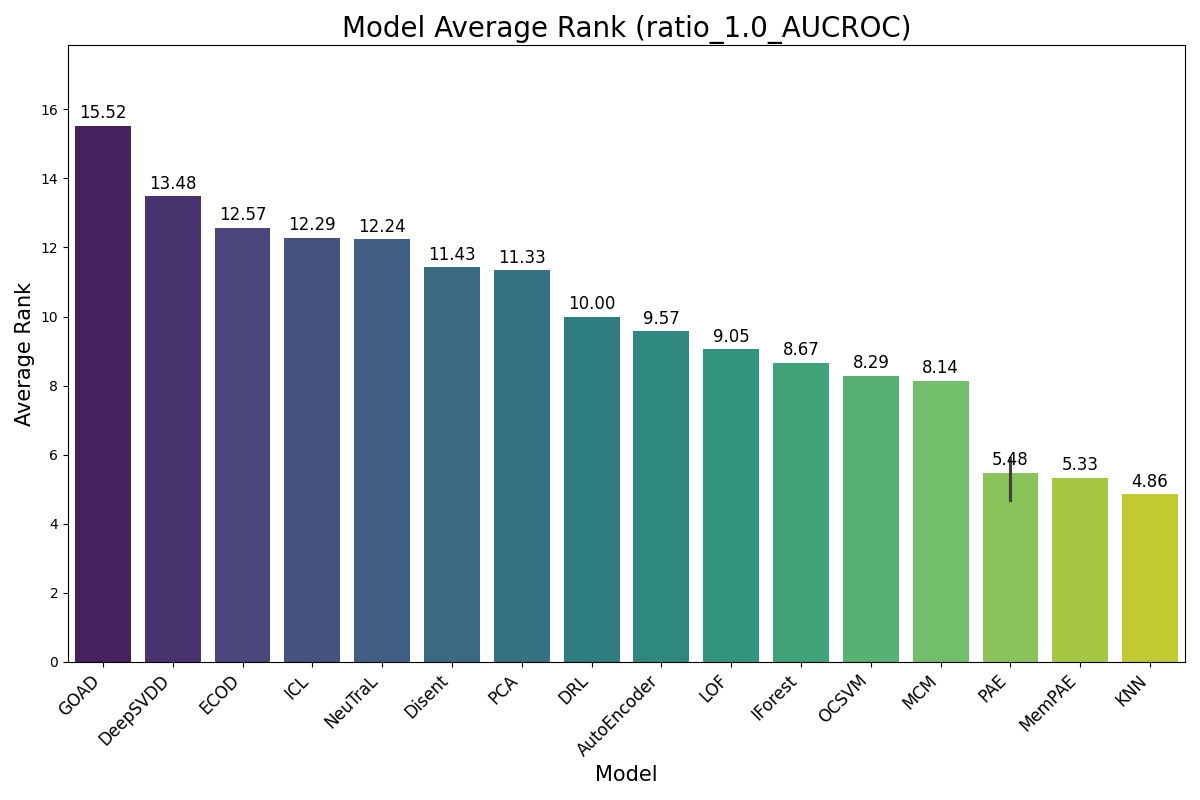
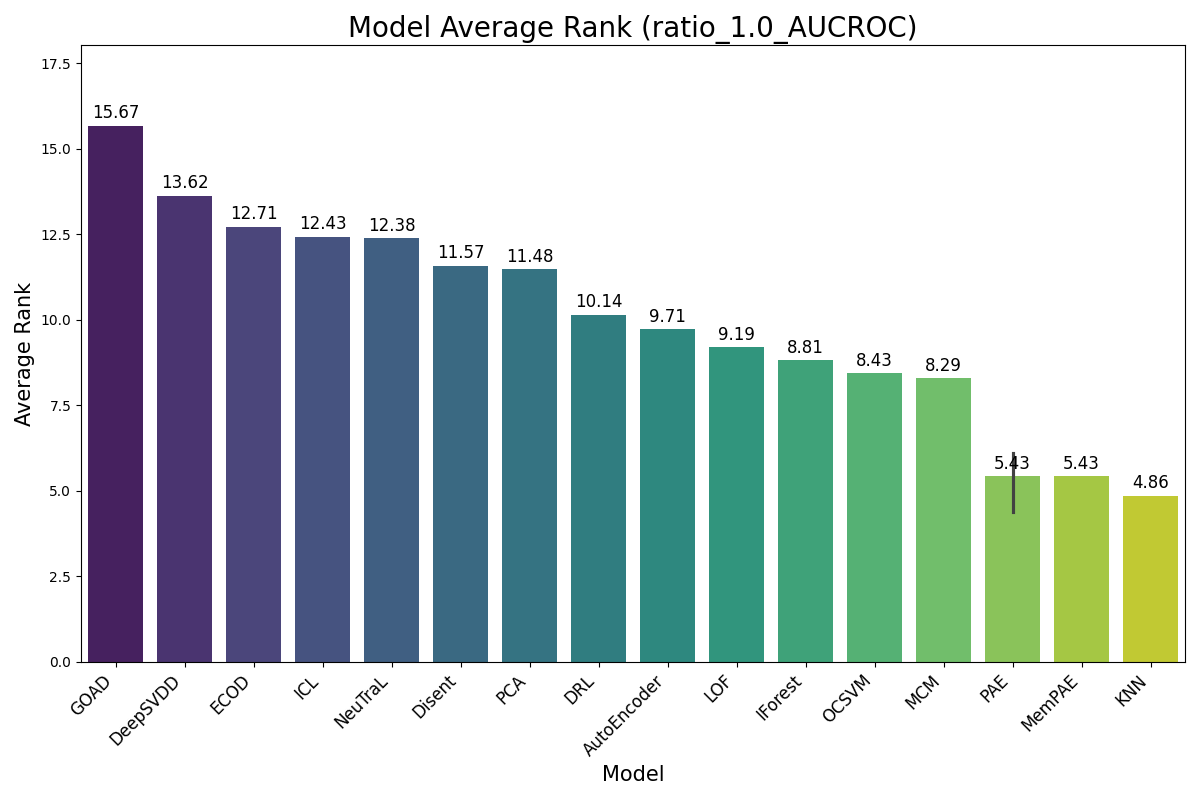
Temp

diff --git a/summary.py b/summary.py
@@ -8,12 +8,13 @@ pd.set_option('display.max_rows', None)
 
 BASE_DIR = "results"
 TRAIN_RATIOS = [0.1, 0.5, 1.0]
-METRICS_CANON = ["AUC-ROC", "AUC-PR"]
+METRICS_CANON = ["AUC-ROC", "AUC-PR", 'f1']
 METRIC_ALIAS = {
     "AUC-ROC": "AUC-ROC", "AUROC": "AUC-ROC", "AUCROC": "AUC-ROC",
     "AUC_ROC": "AUC-ROC", "auc_roc": "AUC-ROC",
     "AUC-PR": "AUC-PR", "AUCPR": "AUC-PR", "AUC_PR": "AUC-PR",
     "auc_pr": "AUC-PR",
+    'f1': 'f1'
 }
 
 def canon_metric_name(name: str):
@@ -465,46 +466,82 @@ def render_ours_on_npt(pivots, ):
     ]
     npt_aucroc = {
         "wine": 96.6,
-        "lympho": 99.9,
+        # "lympho": 99.9,
         "glass": 82.8,
-        "vertebral": 54.6,
+        # "vertebral": 54.6,
         "wbc": 96.3,
-        "ecoli": 88.7,
+        # "ecoli": 88.7,
         "ionosphere": 97.4,
         "arrhythmia": 80.1,
         "breastw": 98.6,
         "pima": 73.4,
-        "vowels": 99.3,
-        "letter": 96.1,
+        # "vowels": 99.3,
+        # "letter": 96.1,
         "cardio": 94.7,
-        "seismic": 69.8,
-        "musk": 100,
-        "speech": 54.3,
+        # "seismic": 69.8,
+        # "musk": 100,
+        # "speech": 54.3,
         "thyroid": 97.8,
-        "abalone": 91.6,
+        # "abalone": 91.6,
         "optdigits": 97.5,
         "satimage-2": 99.9,
         "satellite": 80.3,
         "pendigits": 99.9,
         "annthyroid": 86.7,
-        "mnist": 94.4,
+        # "mnist": 94.4,
         "mammography": 88.6,
-        "mullcross": 100,
+        # "mullcross": 100,
         "shuttle": 99.8,
-        "forest": 95.8,
+        # "forest": 95.8,
         "campaign": 79.1,
         "fraud": 95.7,
-        "backdoor": 95.2
+        # "backdoor": 95.2
     }
+    npt_aucf1 = {
+        "wine": 72.5,
+        # "lympho": 94.2,
+        "glass": 26.2,
+        # "vertebral": 20.3,
+        "wbc": 67.3,
+        # "ecoli": 77.7,
+        "ionosphere": 92.7,
+        "arrhythmia": 60.4,
+        "breastw": 95.7,
+        "pima": 68.8,
+        # "vowels": 88.7,
+        # "letter": 71.4,
+        "cardio": 78.1,
+        # "seismic": 26.2,
+        # "musk": 100,
+        # "speech": 9.3,
+        "thyroid": 77.0,
+        # "abalone": 59.7,
+        "optdigits": 62,
+        "satimage-2": 94.8,
+        "satellite": 74.6,
+        "pendigits": 92.5,
+        "annthyroid": 57.7,
+        # "mnist": 43.6,
+        "mammography": 43.6,
+        # "mullcross": 100,
+        "shuttle": 98.2,
+        # "forest": 58,
+        "campaign": 49.8,
+        "fraud": 58.1,
+        # "backdoor": 84.1,
+    }    
     npt_df = pd.DataFrame([npt_aucroc.values()], index=['NPT-AD'], columns=npt_aucroc.keys())
     npt_df = npt_df/100
     # base = 'ratio_1.0_AUCPR'
     base = 'ratio_1.0_AUCROC'
+            # '',
+    # base = 'ratio_1.0_f1'
     pae_df = render(pivots, data, models, my_models, base, 
             add_avg_rank=False, use_rank=False, use_std=False, 
             use_baseline_pr=False, is_temp_tune=False, is_sort=False, is_plot=False)
     merged_df = merged_df = pd.concat([npt_df, pae_df])
-    merged_df['AVG_AUCROC'] = merged_df.mean(axis=1)
+    merged_df = merged_df.dropna(axis=1)
+    merged_df['AVG_AUC'] = merged_df.mean(axis=1)
     print(merged_df)
 
     return 
@@ -717,7 +754,6 @@ def main(args):
 
     if args.npt:
         render_ours_on_npt(pivots, )
-
 
 if __name__ == "__main__":
     parser = argparse.ArgumentParser()
